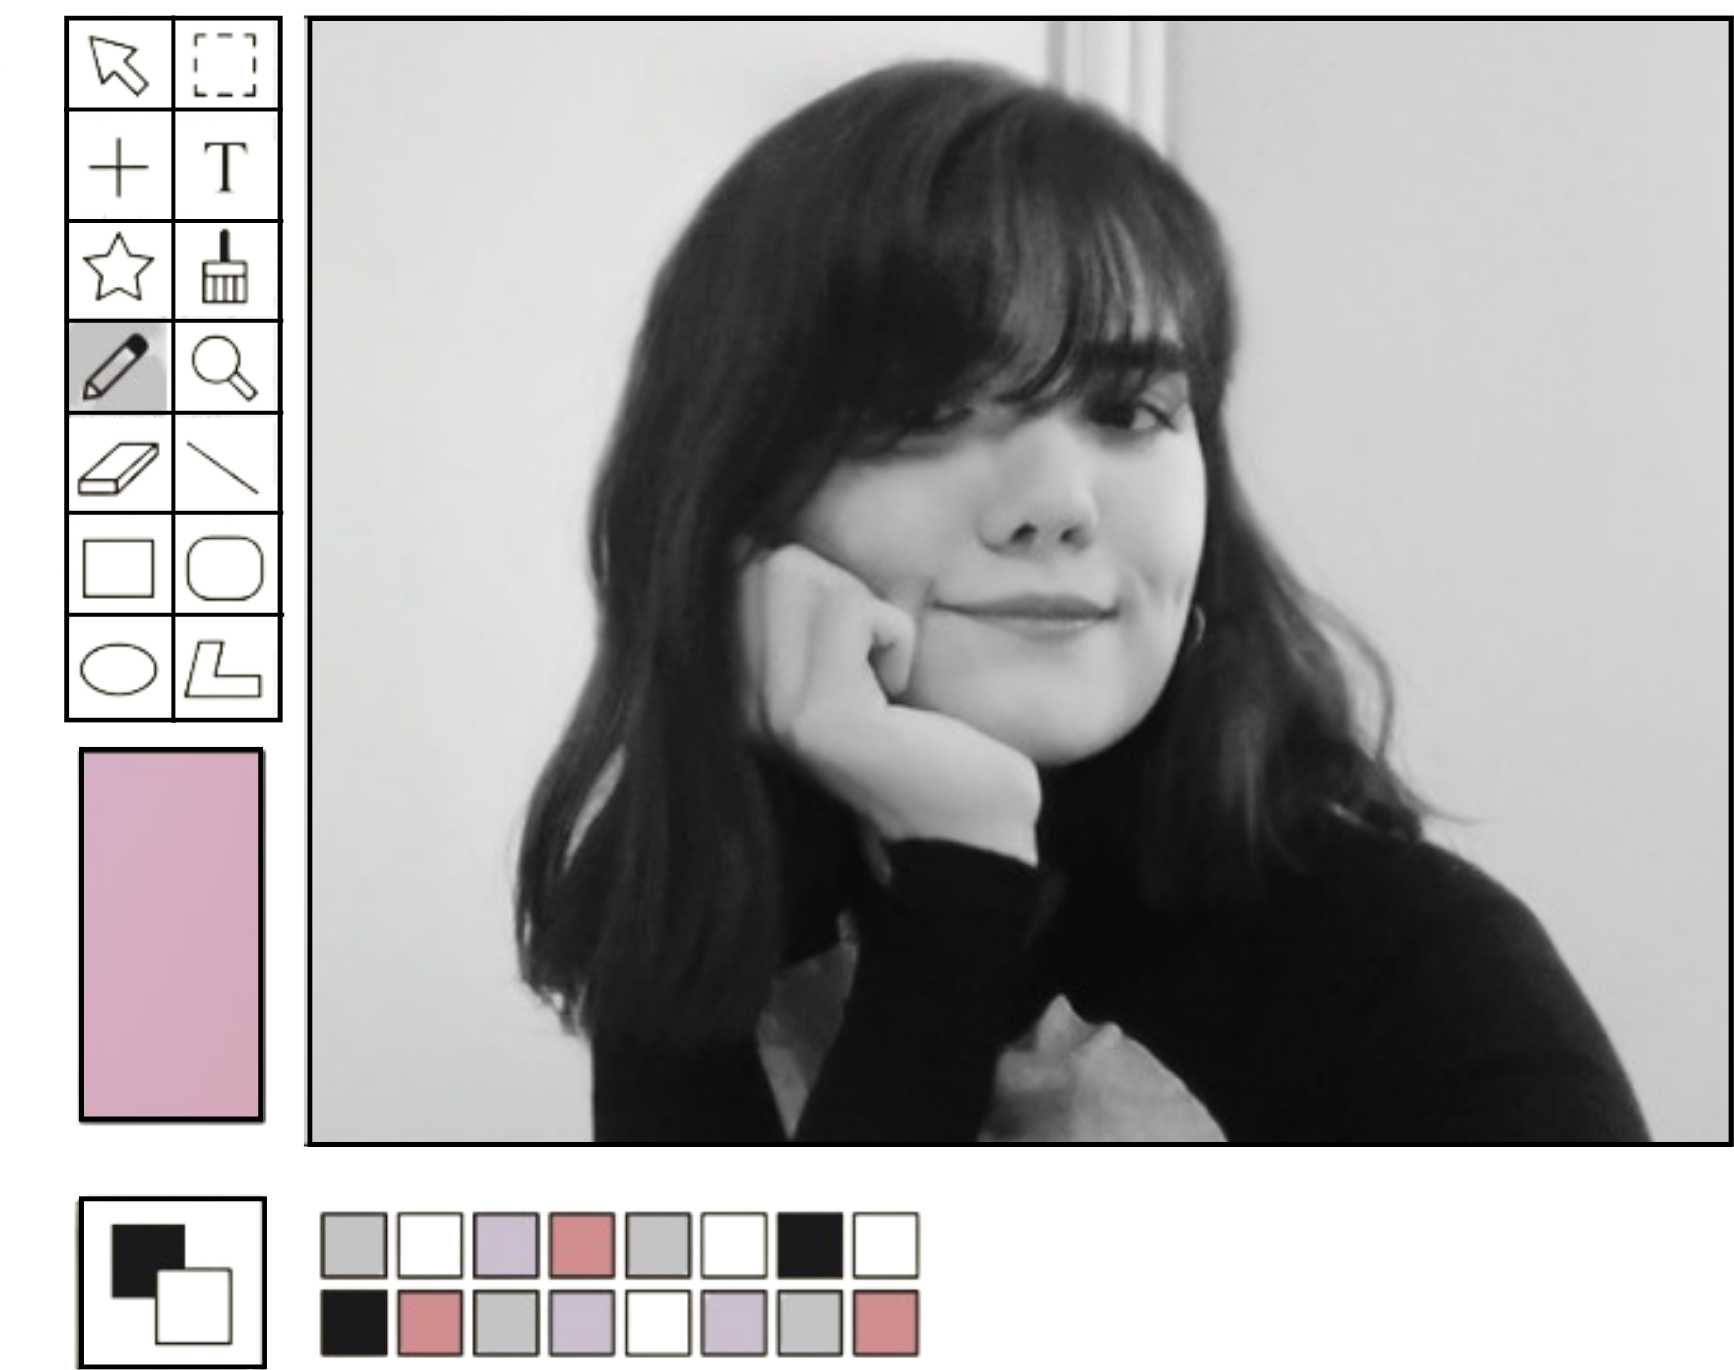
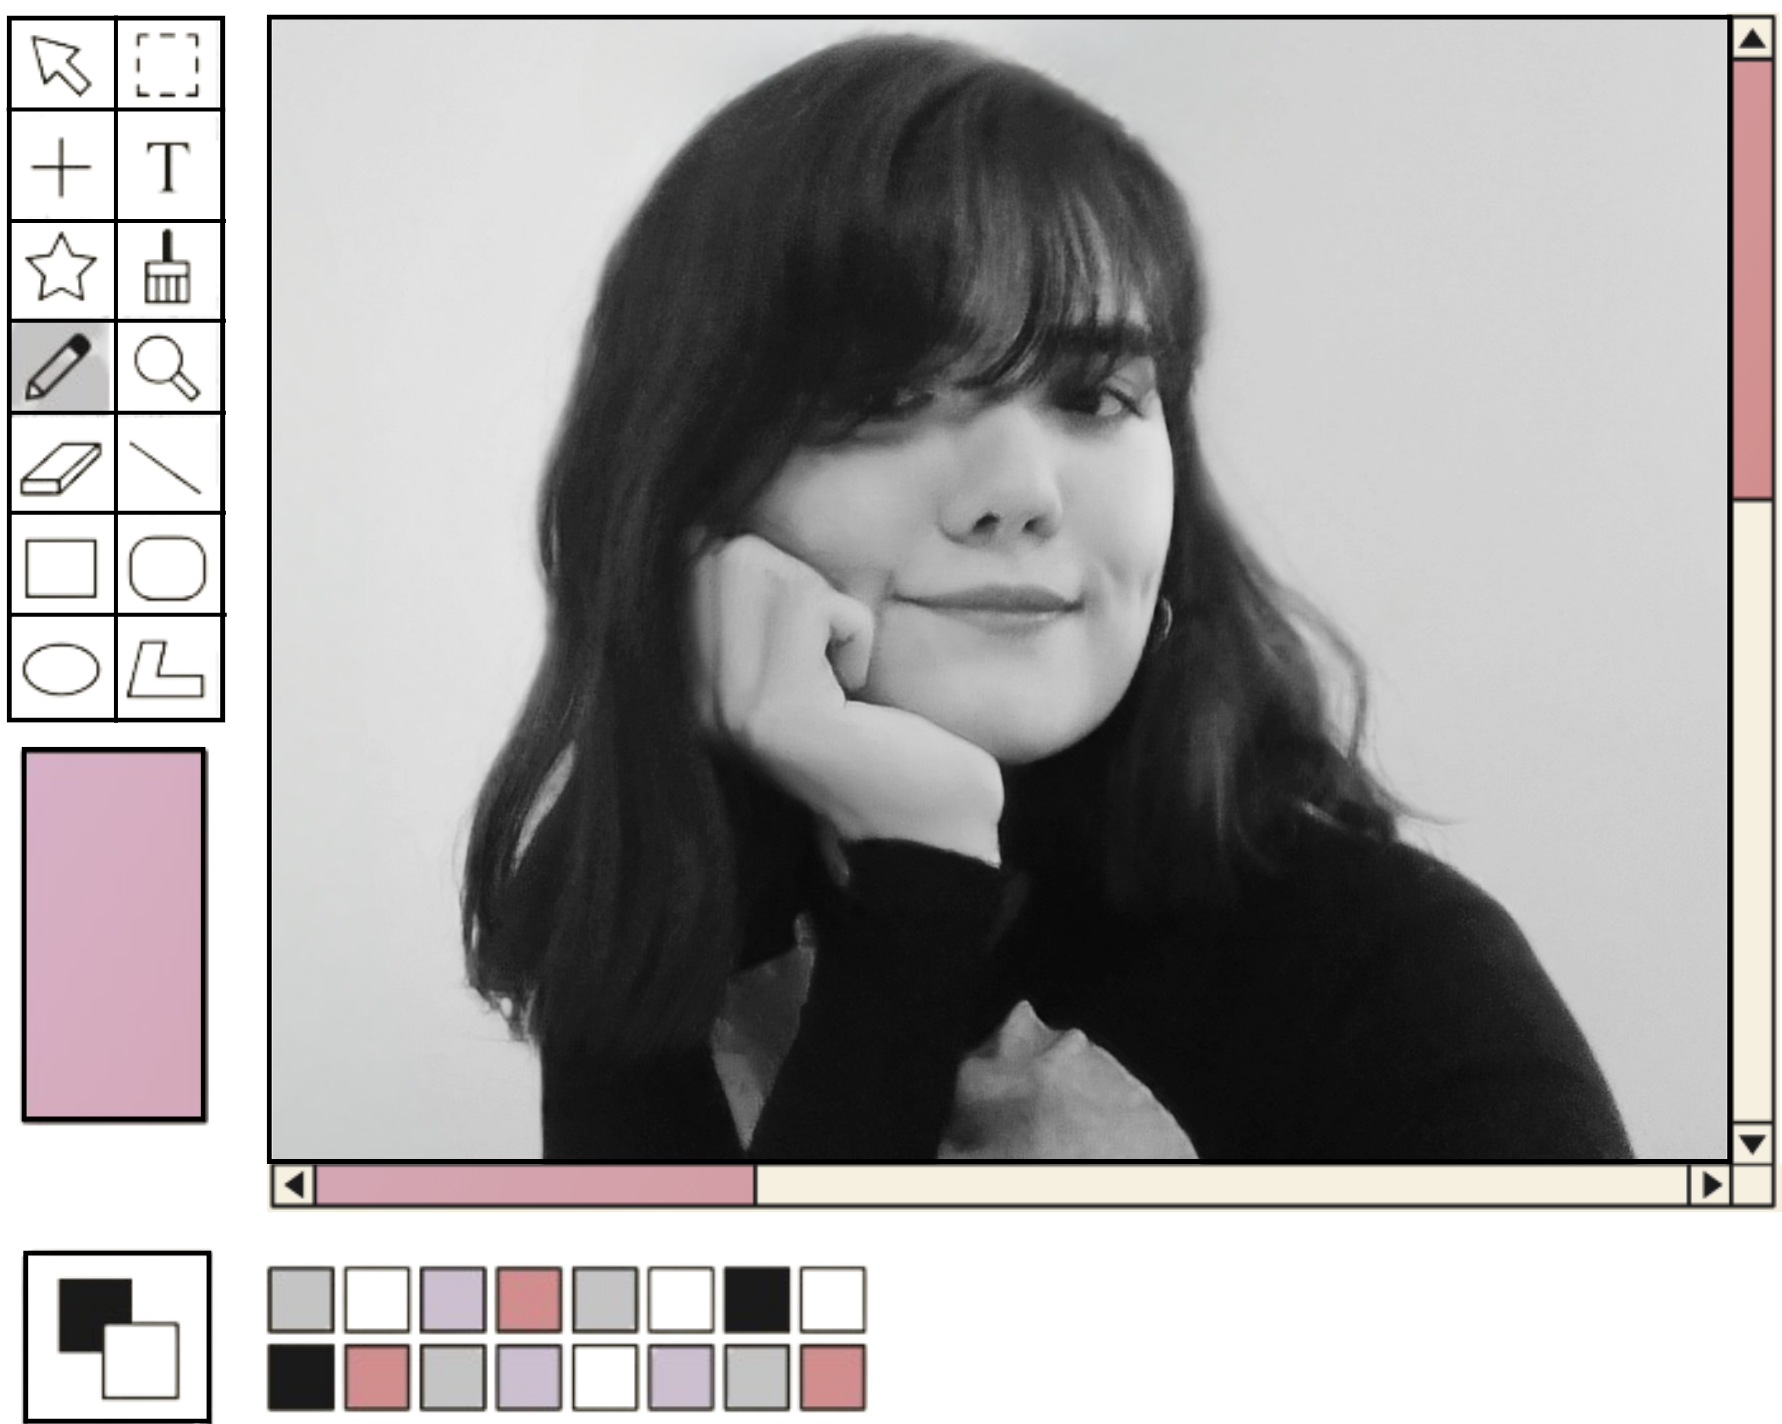
wip

diff --git a/index.html b/index.html
@@ -34,9 +34,7 @@
             </div>
         </div>
         <div class="notice-window-body">
-            <p>My portfolio is still under construction. <br> Please be patient while I work on it.</p>
-            <p>In the meantime, feel free to check out my projects and games.</p>
-            <p>Thank you!</p>
+            <p>My portfolio is still under construction. 
             <p>ฅ^•ﻌ•^ฅ</p>
         </div>
 </div>
@@ -50,13 +48,30 @@
                 </div>
             </div>
             <div class="me-window-body">
-                <p>File&nbsp;&nbsp;Edit&nbsp;&nbsp;View&nbsp;&nbsp;Image&nbsp;&nbsp;Help </p>
+                <p><u>F</u>ile&nbsp;&nbsp;<u>E</u>dit&nbsp;&nbsp;<u>V</u>iew&nbsp;&nbsp;<u>I</u>mage&nbsp;&nbsp;Help </p>
                 <img src="Img/me.png" alt="" class ="me-img">
             </div>
+        </div>
+        <div class="desktop-window draggable" id="aboutme-tab">
+            <div class="window-header" id="aboutme-tab-header">
+                <p>About Me</p>
+                <div class="window-buttons">
+                    <button id="minimize-button" type="button">_</button>      
+                    <button id="restore-button" type="button">❐</button>
+                    <button id="close-button" type="button" >X</button> 
+                </div>
             </div>
+            <div class="aboutme-window-body">
+                <p><u>F</u>ile&nbsp;&nbsp;<u>E</u>dit&nbsp;&nbsp;<u>V</u>iew&nbsp;&nbsp;<u>I</u>mage&nbsp;&nbsp;Help </p>
+                <img src="Img/word.png" alt="" class ="aboutme-img">
+                <H2 class="aboutme-h"> <u>ABOUT ME</u></h2>
+                <p class="aboutme-text">I’m a game development student with a
+                    wide range of interests, that really
+                    enjoys creating things with code and
+                    bringing new ideas to life.</p>
+            </div>
+        </div>
        
-  /
-
     <div class ="main-wrqapper">
         <div class="container-fluid">
             <div class ="row">

diff --git a/style.css b/style.css
@@ -974,19 +974,19 @@ padding-bottom: 1rem;
 }
 
 #construction-tab{
-  width: 30%;
-  height: 40%;
+  width: 22%;
+  height:20%;
   position: absolute;
-  top: 23%;
-  left: 84%;
+  top: 15%;
+  left: 87%;
 }
 #construction-tab-header{
   width: 98.5%;
 }
 
 #me-tab{
-  width: 27.3%;
-  height: 56%;
+  width: 28.7%;
+  height: 60%;
   position: absolute;
   left: 50%;
     top: 50%;
@@ -999,14 +999,85 @@ padding-bottom: 1rem;
 
 .me-window-body{
   position: absolute;
+  width: auto;
   font-size: 20px;
   top:3rem;
-  left: 0.5rem;
+  left: 0.8rem;
 }
 
 .me-img{
-  top: -28rem;
+  /* top: -28rem;
   left: -39rem;
+  position: absolute; */
+  width:99%;
+  /* margin-bottom: 10rem; */
+
+  padding-bottom: 1rem;
+
+
+
+  box-shadow: inset -2px -2px 0px  #6b6a6a50, inset 2px 2px 0px #fcfbfb38;
+
+}
+
+.me-window-body p{
+  margin-bottom: 0.2rem;
+  cursor: pointer;
+}
+
+#aboutme-tab{
+  width: 28.7%;
+  height: 56%;
   position: absolute;
-  transform: scale(0.3);
+  left: 80%;
+    top: 55%;
+    transform: translate(-50%, -50%);
+}
+
+#aboutme-tab-header{
+  width: 98.5%;
+}
+
+.aboutme-window-body{
+  position: absolute;
+  width: auto;
+  font-size: 20px;
+  top:3rem;
+  left: 0.8rem;
+}
+
+.aboutme-img{
+  /* top: -28rem;
+  left: -39rem;
+  position: absolute; */
+  width:98%;
+  /* padding-right: 0.3rem; */
+  /* margin-bottom: 10rem; */
+
+  /* padding-bottom: 1rem;
+*/
+padding-top: 0.5rem;
+
+
+
+
+  box-shadow: inset -2px -2px 0px  #6b6a6a50, inset 2px 2px 0px #fcfbfb38; 
+
+}
+
+.aboutme-window-body p{
+  margin-bottom: 0.1rem;
+  cursor: pointer;
+}
+.aboutme-h{
+  position: absolute;
+  top: 8rem;
+  left: 13rem ;
+}
+
+.aboutme-text{
+  width: 70%;
+  position: absolute;
+  top: 11rem;
+  left: 5rem ;
 }
